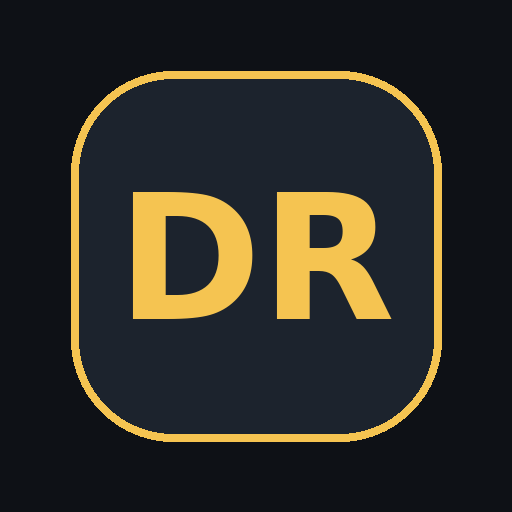
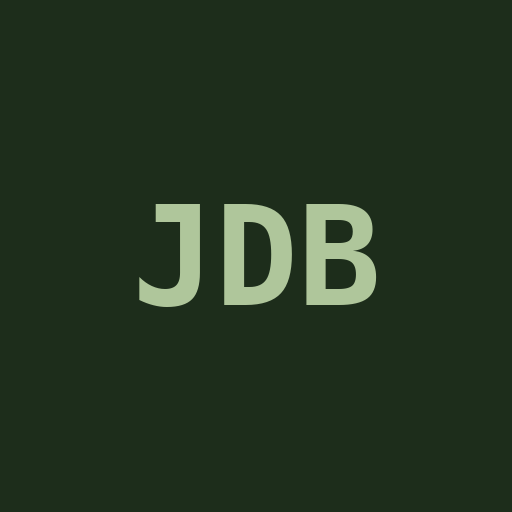
New file versions for V1.1

diff --git a/index.html b/index.html
@@ -3,61 +3,61 @@
 <head>
 <meta charset="utf-8" />
 <meta name="viewport" content="width=device-width, initial-scale=1, maximum-scale=1, viewport-fit=cover" />
-<title>Draft Room</title>
-<meta name="theme-color" content="#0e1116" />
+<title>Juli's Draft Room</title>
+<meta name="theme-color" content="#1d2d1b" />
 <link rel="manifest" href="./manifest.webmanifest" />
 <link rel="apple-touch-icon" href="./icons/apple-touch-icon.png" />
 <meta name="apple-mobile-web-app-capable" content="yes" />
 <meta name="apple-mobile-web-app-status-bar-style" content="black-translucent" />
-<meta name="apple-mobile-web-app-title" content="Draft Room" />
+<meta name="apple-mobile-web-app-title" content="JDB" />
 <link rel="preconnect" href="https://fonts.googleapis.com" />
 <style>
   @import url('https://fonts.googleapis.com/css2?family=Oswald:wght@500;600;700&family=Inter:wght@400;500;600&display=swap');
   :root{
-    --bg:#0e1116; --panel:#161b22; --panel2:#1c232d; --line:#28303c;
-    --text:#e6e9ef; --muted:#8b95a5; --gold:#f5c451;
+    --bg:#1d2d1b; --panel:#26361f; --panel2:#2e3f26; --line:#3a4d32;
+    --text:#e8ece3; --muted:#98a88f; --gold:#f5c451;
   }
   *{box-sizing:border-box;}
   html,body{margin:0;background:var(--bg);color:var(--text);font-family:'Inter',system-ui,sans-serif;}
   #app{max-width:640px;margin:0 auto;min-height:100vh;border-left:1px solid var(--line);border-right:1px solid var(--line);
        padding-bottom:env(safe-area-inset-bottom);}
   .head{position:sticky;top:0;z-index:5;background:var(--bg);padding:calc(16px + env(safe-area-inset-top)) 16px 12px;border-bottom:1px solid var(--line);}
-  .title{display:flex;align-items:baseline;justify-content:space-between;}
-  .kicker{font-family:'Oswald',sans-serif;font-weight:700;letter-spacing:.14em;text-transform:uppercase;font-size:20px;}
+  .title{display:flex;align-items:baseline;justify-content:space-between;flex-wrap:wrap;gap:2px 10px;}
+  .kicker{font-family:'Oswald',sans-serif;font-weight:700;letter-spacing:.06em;text-transform:uppercase;font-size:16px;}
   .picks{font-size:12px;color:var(--muted);}
   .seg{display:flex;gap:6px;margin-top:12px;}
   .segbtn{flex:1;display:flex;flex-direction:column;gap:2px;align-items:flex-start;padding:9px 12px;background:var(--panel);
           border:1px solid var(--line);border-radius:9px;cursor:pointer;color:var(--muted);text-align:left;font:inherit;}
-  .segbtn.on{background:var(--panel2);border-color:#3a4656;color:var(--text);}
+  .segbtn.on{background:var(--panel2);border-color:#4a5f40;color:var(--text);}
   .segbtn b{font-family:'Oswald',sans-serif;font-weight:600;font-size:15px;letter-spacing:.03em;}
   .segbtn span{font-size:11px;}
   .scoring{margin:9px 2px 0;font-size:11.5px;color:var(--muted);}
   .viewseg{margin-top:12px;}
   .viewbtn{flex:1;padding:8px;background:var(--panel);border:1px solid var(--line);border-radius:8px;color:var(--muted);
            font:600 13px 'Inter',sans-serif;cursor:pointer;}
-  .viewbtn.on{background:var(--gold);border-color:var(--gold);color:#0e1116;}
+  .viewbtn.on{background:var(--gold);border-color:var(--gold);color:#1d2d1b;}
   .controls{position:sticky;top:0;z-index:4;padding:12px 16px;background:var(--bg);border-bottom:1px solid var(--line);}
   .search{width:100%;padding:9px 12px;background:var(--panel);border:1px solid var(--line);border-radius:8px;color:var(--text);font-size:14px;outline:none;}
-  .search::placeholder{color:#5f6b7c;}
-  .search:focus{border-color:#3a4656;}
+  .search::placeholder{color:#6f7f66;}
+  .search:focus{border-color:#4a5f40;}
   .chips{display:flex;gap:6px;margin-top:10px;flex-wrap:wrap;}
   .chip{display:inline-flex;align-items:center;gap:5px;padding:5px 11px;background:var(--panel);border:1px solid var(--line);
         border-radius:20px;color:var(--text);font:600 12px 'Inter',sans-serif;cursor:pointer;}
-  .chip.on{background:#e6e9ef;color:#0e1116;border-color:#e6e9ef;}
+  .chip.on{background:#e8ece3;color:#1d2d1b;border-color:#e8ece3;}
   .chip .n{font-size:10px;opacity:.7;font-weight:500;}
   .list{padding:4px 12px 24px;}
   .tier{margin-top:14px;}
   .tier-head{display:flex;justify-content:space-between;align-items:center;font-family:'Oswald',sans-serif;letter-spacing:.08em;
              text-transform:uppercase;font-size:12px;color:var(--muted);padding:4px 4px 8px;border-bottom:1px dashed var(--line);}
   .tier-head .n{font-size:11px;}
-  .row{display:flex;align-items:center;gap:10px;padding:11px 8px;border-bottom:1px solid #1b222c;cursor:pointer;}
+  .row{display:flex;align-items:center;gap:10px;padding:11px 8px;border-bottom:1px solid #243021;cursor:pointer;}
   .row:active{background:var(--panel);}
   .rank{width:26px;text-align:center;font-family:'Oswald',sans-serif;font-weight:600;font-size:14px;color:var(--muted);flex:none;}
   .postag{flex:none;width:34px;text-align:center;padding:3px 0;border-radius:5px;font-family:'Oswald',sans-serif;font-weight:700;
-          font-size:11px;color:#0e1116;letter-spacing:.03em;}
+          font-size:11px;color:#1d2d1b;letter-spacing:.03em;}
   .name{flex:1;font-size:14.5px;font-weight:500;min-width:0;overflow:hidden;text-overflow:ellipsis;white-space:nowrap;}
   .team{font-size:11px;color:var(--muted);flex:none;letter-spacing:.03em;}
-  .star{flex:none;width:34px;height:34px;border-radius:8px;border:1px solid var(--line);background:var(--panel);color:#586274;
+  .star{flex:none;width:34px;height:34px;border-radius:8px;border:1px solid var(--line);background:var(--panel);color:#6f7f66;
         font-size:16px;cursor:pointer;line-height:1;}
   .star:active{color:var(--gold);border-color:var(--gold);}
   .draftedwrap{margin-top:22px;border-top:1px solid var(--line);padding-top:10px;}
@@ -71,7 +71,7 @@
   .team-head{display:flex;justify-content:space-between;align-items:center;font-family:'Oswald',sans-serif;text-transform:uppercase;
              letter-spacing:.08em;font-size:13px;color:var(--text);padding-bottom:8px;border-bottom:1px solid var(--line);}
   .team-count{font-size:11px;color:var(--muted);}
-  .slot{display:flex;align-items:center;gap:11px;padding:11px 6px;border-bottom:1px solid #1b222c;}
+  .slot{display:flex;align-items:center;gap:11px;padding:11px 6px;border-bottom:1px solid #243021;}
   .slot.empty{opacity:.5;}
   .slot-label{flex:none;min-width:44px;text-align:center;padding:4px 6px;border-radius:6px;font-family:'Oswald',sans-serif;
               font-weight:700;font-size:11px;letter-spacing:.04em;border:1px solid var(--line);}
@@ -80,7 +80,7 @@
   .slot-empty{flex:1;font-size:13px;color:var(--muted);font-style:italic;}
   .empty{text-align:center;color:var(--muted);font-size:13px;padding:26px 12px;}
   .foot{display:flex;align-items:center;justify-content:space-between;gap:10px;padding:14px 16px;border-top:1px solid var(--line);flex-wrap:wrap;}
-  .src{font-size:11px;color:#6b7686;flex:1;min-width:180px;}
+  .src{font-size:11px;color:#7c8c73;flex:1;min-width:180px;}
   .reset{background:var(--panel);border:1px solid var(--line);color:var(--muted);padding:7px 12px;border-radius:7px;font:600 12px 'Inter',sans-serif;cursor:pointer;}
   .reset.yes{color:#f26d6d;border-color:#5a2b2b;}
   .reset-confirm{display:flex;align-items:center;gap:8px;font-size:12px;color:var(--muted);}
@@ -162,7 +162,7 @@ function render(){
   // header
   const head = el("div",{class:"head"});
   head.append(el("div",{class:"title"},
-    el("span",{class:"kicker"},"Draft Room"),
+    el("span",{class:"kicker"},"Juli's Draft Room"),
     el("span",{class:"picks"}, picks+" off the board")));
   const fmt = el("div",{class:"seg"});
   for(const key of ["redraft","dynasty"]){
@@ -207,7 +207,7 @@ function renderBoard(app, cfg, statusMap){
   const chips=el("div",{class:"chips"});
   for(const p of ["ALL",...POS_ORDER]){
     const on=state.posFilter===p;
-    const style = on && p!=="ALL" ? "background:"+POS_COLOR[p]+";color:#0e1116;border-color:"+POS_COLOR[p] : "";
+    const style = on && p!=="ALL" ? "background:"+POS_COLOR[p]+";color:#1d2d1b;border-color:"+POS_COLOR[p] : "";
     const c=el("button",{class:"chip"+(on?" on":""), style, onclick:()=>{state.posFilter=p;render();}}, p);
     if(p!=="ALL") c.append(el("span",{class:"n"}, String(remaining[p])));
     chips.append(c);
@@ -269,8 +269,8 @@ function renderTeam(app, cfg, mt){
   wrap.append(el("div",{class:"team-head"}, el("span",{},"Starters"), el("span",{class:"team-count"}, mt.filled+"/"+mt.total+" filled")));
   mt.slots.forEach(s=>{
     const row=el("div",{class:"slot"+(s.player?"":" empty")});
-    const style = s.player ? "background:"+(POS_COLOR[s.player.pos]||"#7a8697")+";color:#0e1116"
-                           : "color:#8b95a5;background:transparent";
+    const style = s.player ? "background:"+(POS_COLOR[s.player.pos]||"#7a8697")+";color:#1d2d1b"
+                           : "color:#98a88f;background:transparent";
     row.append(el("span",{class:"slot-label", style}, s.slot));
     if(s.player){
       row.append(el("span",{class:"slot-name"}, s.player.name));
@@ -282,7 +282,7 @@ function renderTeam(app, cfg, mt){
   if(mt.bench.length===0) wrap.append(el("p",{class:"empty"},"No bench players yet. Tap ★ on the board to add players."));
   mt.bench.forEach(p=>{
     const row=el("div",{class:"slot"});
-    row.append(el("span",{class:"slot-label", style:"background:"+(POS_COLOR[p.pos]||"#7a8697")+";color:#0e1116"}, p.pos));
+    row.append(el("span",{class:"slot-label", style:"background:"+(POS_COLOR[p.pos]||"#7a8697")+";color:#1d2d1b"}, p.pos));
     row.append(el("span",{class:"slot-name"}, p.name));
     row.append(el("span",{class:"slot-team"}, p.team));
     wrap.append(row);

diff --git a/sw.js b/sw.js
@@ -3,7 +3,7 @@
    Rankings live in ./data/*.json and are fetched network-first, so a data
    refresh shows up automatically the next time the app is opened online —
    no version bump needed for ranking updates. */
-const SHELL_VERSION = "v1";
+const SHELL_VERSION = "v2";
 const SHELL_CACHE = "draftroom-shell-" + SHELL_VERSION;
 const DATA_CACHE  = "draftroom-data";
 const SHELL = [
